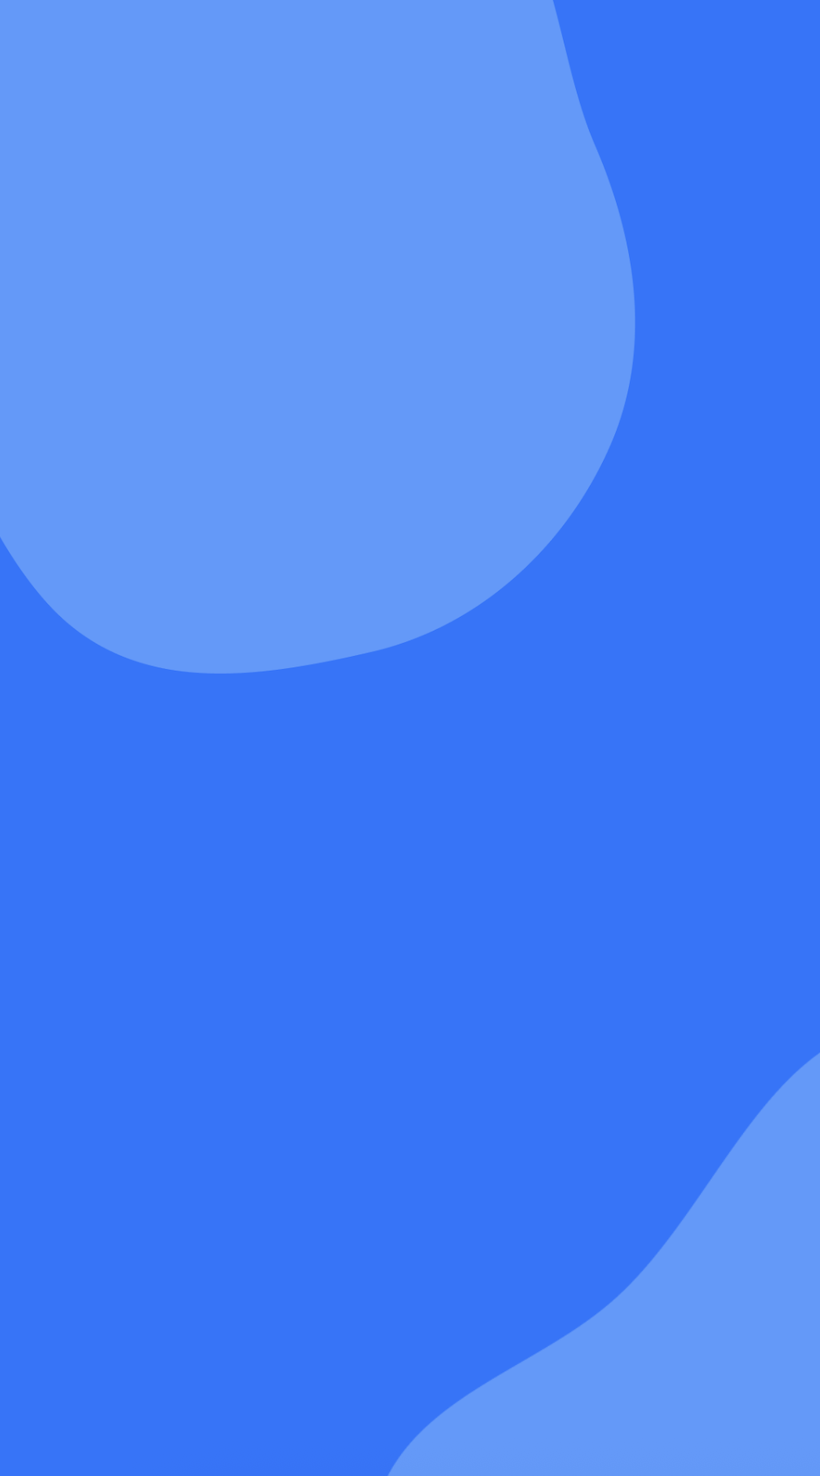
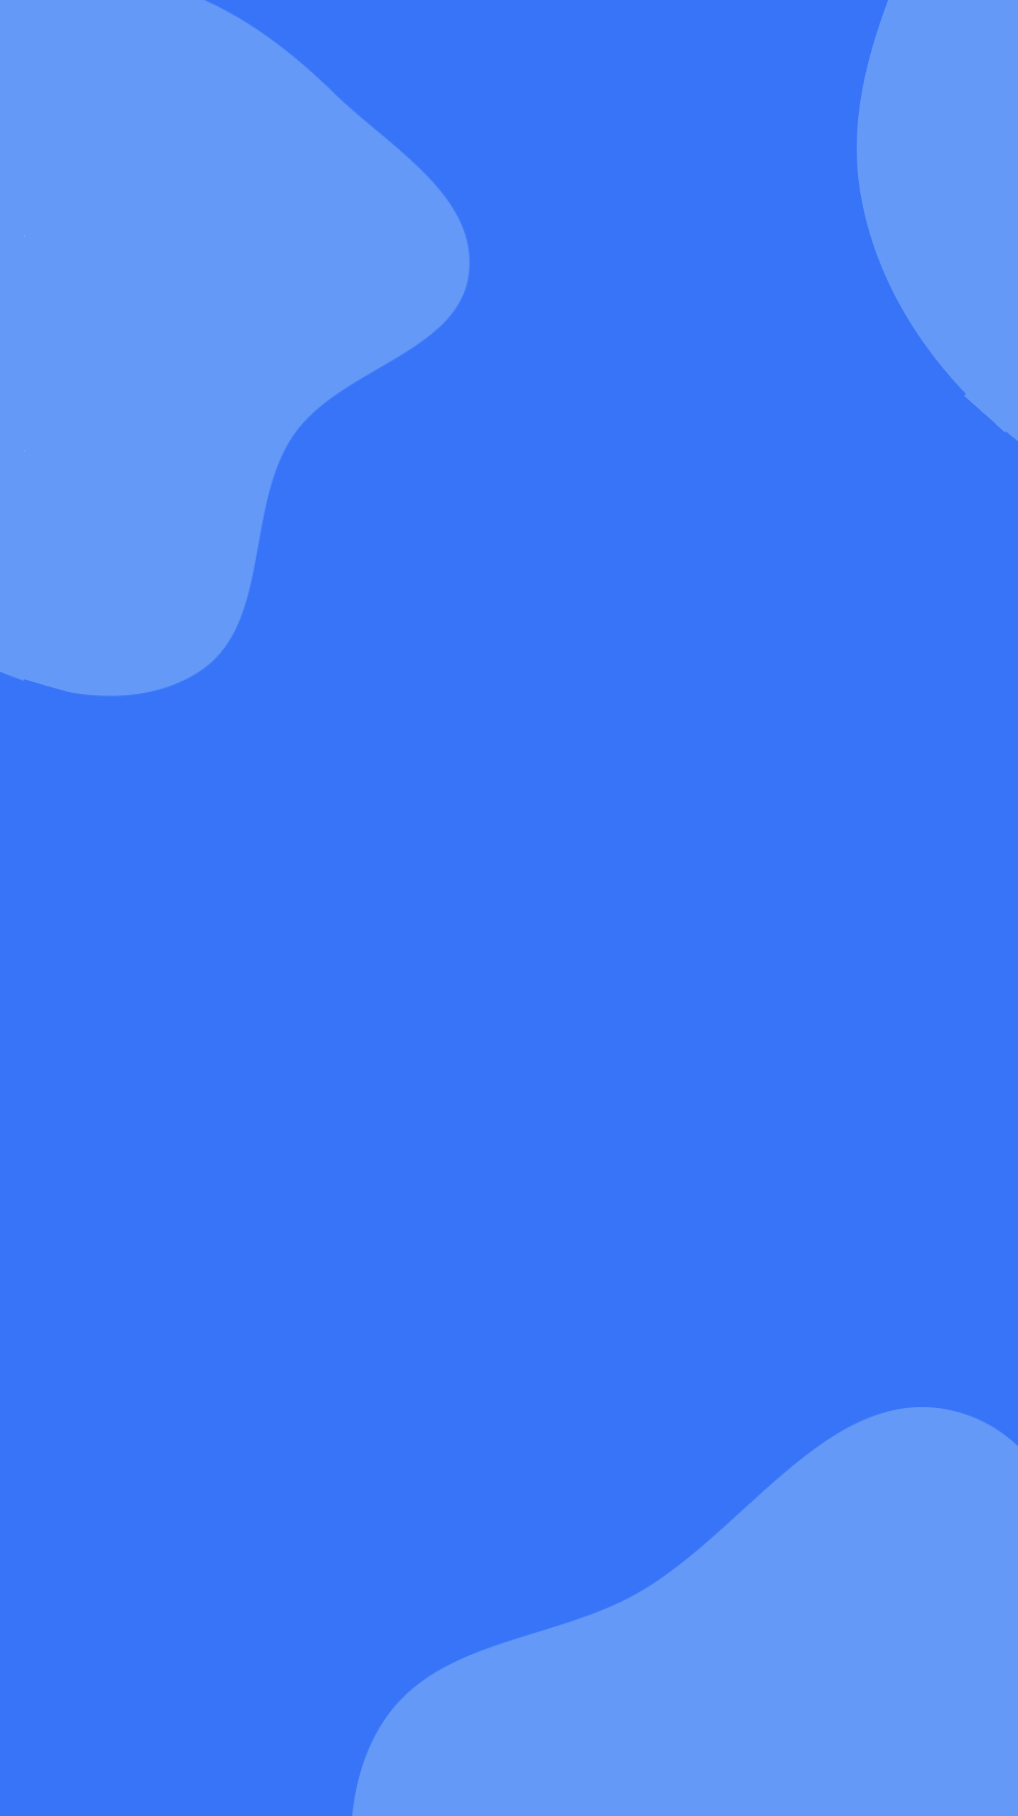
backgrounds added in css

diff --git a/style.css b/style.css
@@ -137,7 +137,7 @@ nav {
     background-image: url('backgrounds/home-background.png');
     background-size: cover;
     background-repeat: repeat-y;
-    animation: scroll-vertical 30s ease-in-out infinite alternate;
+    animation: scroll-vertical 15s linear infinite alternate;
 } 
 
 .scrolling-background-directory {
@@ -145,7 +145,31 @@ nav {
     background-image: url('backgrounds/directory-background.png');
     background-size: cover;
     background-repeat: repeat-y;
-    animation: scroll-vertical 30s ease-in-out infinite alternate;
+    animation: scroll-vertical 15s linear infinite alternate;
+}
+
+.scrolling-background-index {
+    height: 100vh;
+    background-image: url('backgrounds/index-background.png');
+    background-size: cover;
+    background-repeat: repeat-y;
+    animation: scroll-vertical 15s linear infinite alternate;
+}
+
+.scrolling-background-instructors {
+    height: 100vh;
+    background-image: url('backgrounds/instructors-background.png');
+    background-size: cover;
+    background-repeat: repeat-y;
+    animation: scroll-vertical 15s linear infinite alternate;
+}
+
+.scrolling-background-gallery {
+    height: 100vh;
+    background-image: url('backgrounds/gallery-background.png');
+    background-size: cover;
+    background-repeat: repeat-y;
+    animation: scroll-vertical 15s linear infinite alternate;
 }
 
 @keyframes scroll-vertical {
